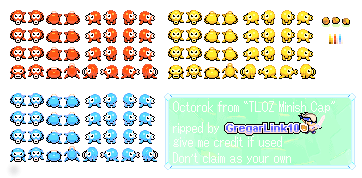
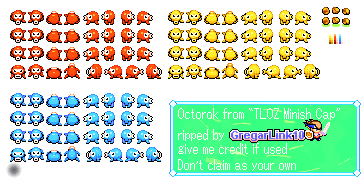
Added projectiles and lives

diff --git a/game.js b/game.js
@@ -44,6 +44,13 @@ window.addEventListener("load",function() {
 		move_up: { frames: [2,3], rate: 1/4.5},
 		move_left: { frames: [4,5], rate: 1/4.5},
 		move_right: { frames: [6,7], rate: 1/4.5},
+		ready: { frames: [0], rate: 2, next: "shoot"},
+		shoot: { frames: [1], rate: 1/2, trigger: "fired", next: "ready"}
+	});
+
+
+	Q.animations('projectile anim', {
+		fly_3: { frames: [0,1,2], rate: 1/4.5}
 	});
 	
 /********************************/
@@ -77,6 +84,28 @@ window.addEventListener("load",function() {
 				Q.state.inc("score",200);
 			}
 		}
+	});
+
+	Q.component('projectile', {
+		added: function () {
+			this.entity.p.collisionMask = Q.SPRITE_ENEMY | Q.SPRITE_ACTIVE | Q.SPRITE_DEFAULT;
+			this.entity.p.type = Q.SPRITE_ENEMY;
+
+			//this.entity.on("hit",this.entity,"collision");
+		}/*,
+		collision: function(collision) {
+			if(collision.obj.isA("Mario")) { 
+				collision.obj.destroy();
+				if(Q.state.get("level") == 2)
+					Q.stageScene("endGame",1, { label: "You Win" });
+				else {
+					Q.state.inc("level",1);
+					Q.stageScene('level' + Q.state.get("level"));
+				}
+			}
+			else
+				this.entity.destroy();
+		}*/
 	});
 
 
@@ -162,6 +191,9 @@ window.addEventListener("load",function() {
 			if(this.p.sheet != newSheet)
 				this.sheet(newSheet);
 			this.play(newAnim);
+		},
+		hit: function() {
+			Q.state.dec("lives",1);
 		}
 	});
 
@@ -172,12 +204,65 @@ window.addEventListener("load",function() {
 			// You can call the parent's constructor with this._super(..)
 			this._super(p, {
 				sheet: "octorok_red",
-				sprite: "octorok anim"
+				sprite: "octorok anim",
+				proyectileSpeed: 100
 			});
 
 			// Add in pre-made components to get up and running quickly
 			this.add('2d, animation, defaultEnemy, aiShoot');
 			//this.play("run");
+    		this.on("fired",this,"launchBullet");
+		},
+		launchBullet: function(){
+			var locationX = this.p.x;
+			var locationY = this.p.y;
+			var speedX = 0;
+			var speedY = 0;
+			var margin = 5;
+			if(this.p.facing == "up"){
+				locationY -= (this.p.cy + margin);
+				speedY = - this.p.proyectileSpeed;
+			} else if(this.p.facing == "down"){
+				locationY += this.p.cy + margin;
+				speedY = this.p.proyectileSpeed;
+			} else if(this.p.facing == "left"){
+				locationX -= (this.p.cy + margin);
+				speedX = - this.p.proyectileSpeed;
+			} else if(this.p.facing == "right"){
+				locationX += this.p.cx + margin;
+				speedX = this.p.proyectileSpeed;
+			}
+			Q.stage().insert(new Q.Octorok_rok({x: locationX, y: locationY, vx: speedX, vy: speedY}));
+		}
+	});
+
+	Q.Sprite.extend("Octorok_rok",{
+
+		// the init constructor is called on creation
+		init: function(p) {
+			// You can call the parent's constructor with this._super(..)
+			this._super(p, {
+				sheet: "octorok_rok",
+				sprite: "projectile anim"
+			});
+
+			// Add in pre-made components to get up and running quickly
+			this.add('2d, animation, projectile');
+			this.on("hit",this,"collision");
+			this.play("fly_3");
+		},
+		collision: function(collision) {
+			this.destroy();
+
+			if(collision.obj.isA("Player")) { 
+				collision.obj.hit();
+				/*if(Q.state.get("lives") == 0)
+					Q.stageScene("endGame",1, { label: "You Win" });
+				else {
+					Q.state.inc("level",1);
+					Q.stageScene('level' + Q.state.get("level"));
+				}*/
+			}
 		}
 	});
 
@@ -247,7 +332,7 @@ window.addEventListener("load",function() {
 		button.on("click",function() {
 			Q.clearStages();
 			Q.state.reset({ level: 1, lives: 3 });
-			Q.stageScene('level' + Q.state.get("level"));
+			//Q.stageScene('level' + Q.state.get("level"));
 			Q.stageScene("gameStats",1);
 		});
 
@@ -264,6 +349,7 @@ window.addEventListener("load",function() {
 		
 		Q.loadTMX("level1.tmx, sprites.json", function() {
 			Q.stageScene("level1");
+			Q.stageScene("gameStats",1);
 		});
 
 		//Q.debug = true;

diff --git a/lib/quintus_2d.js b/lib/quintus_2d.js
@@ -540,9 +540,10 @@ Quintus["2D"] = function(Q) {
     added: function() {
       this.entity.on("step",this,"seekPlayer");
       this.entity.p.moveSpeed = 50;
+      this.entity.p.facing = "";
     },
 
-    seekPlayer: function() {
+    seekPlayer: function(elapsedTipe) {
       var player = Q("Player").first();
       var diffX =  player.p.x - this.entity.p.x;
       var diffY = player.p.y - this.entity.p.y;
@@ -551,11 +552,37 @@ Quintus["2D"] = function(Q) {
       var marginY = player.p.cy + this.entity.p.cy - 10;
 
       if(Math.round(Math.abs(diffX)) < marginX || Math.round(Math.abs(diffY) < marginY)){
-        this.entity.p.vx = 0;
-        this.entity.p.vy = 0;
-        console.log("bang");
+      	if( this.entity.p.animation != "ready" && this.entity.p.animation != "shoot"){
+	        this.entity.p.vx = 0;
+	        this.entity.p.vy = 0;
+	        if(Math.round(Math.abs(diffX)) < marginX) { //aim up or down	
+	        	if(diffY > 0){
+	      			this.entity.sheet("octorok_red_shoot_d");
+	      			this.entity.p.facing = "down";
+					this.entity.play("ready");
+	        	}
+	        	else{  		
+	      			this.entity.sheet("octorok_red_shoot_u");
+	            	this.entity.play("ready");
+	      			this.entity.p.facing = "up";
+	            }
+	  		}
+	  		else {//aim left or right
+	        	if(diffX > 0){
+	      			this.entity.sheet("octorok_red_shoot_r");
+					this.entity.play("ready");
+	      			this.entity.p.facing = "right";
+	        	}
+	        	else{		
+	      			this.entity.sheet("octorok_red_shoot_l");
+	            	this.entity.play("ready");
+	      			this.entity.p.facing = "left";
+	            }
+	  		}
+	  	}
       }
       else{
+      	this.entity.sheet("octorok_red");
         if(Math.abs(diffX) < Math.abs(diffY)) { //go left/right
           this.entity.p.vy = 0;
           if(diffX > 0) { //right
